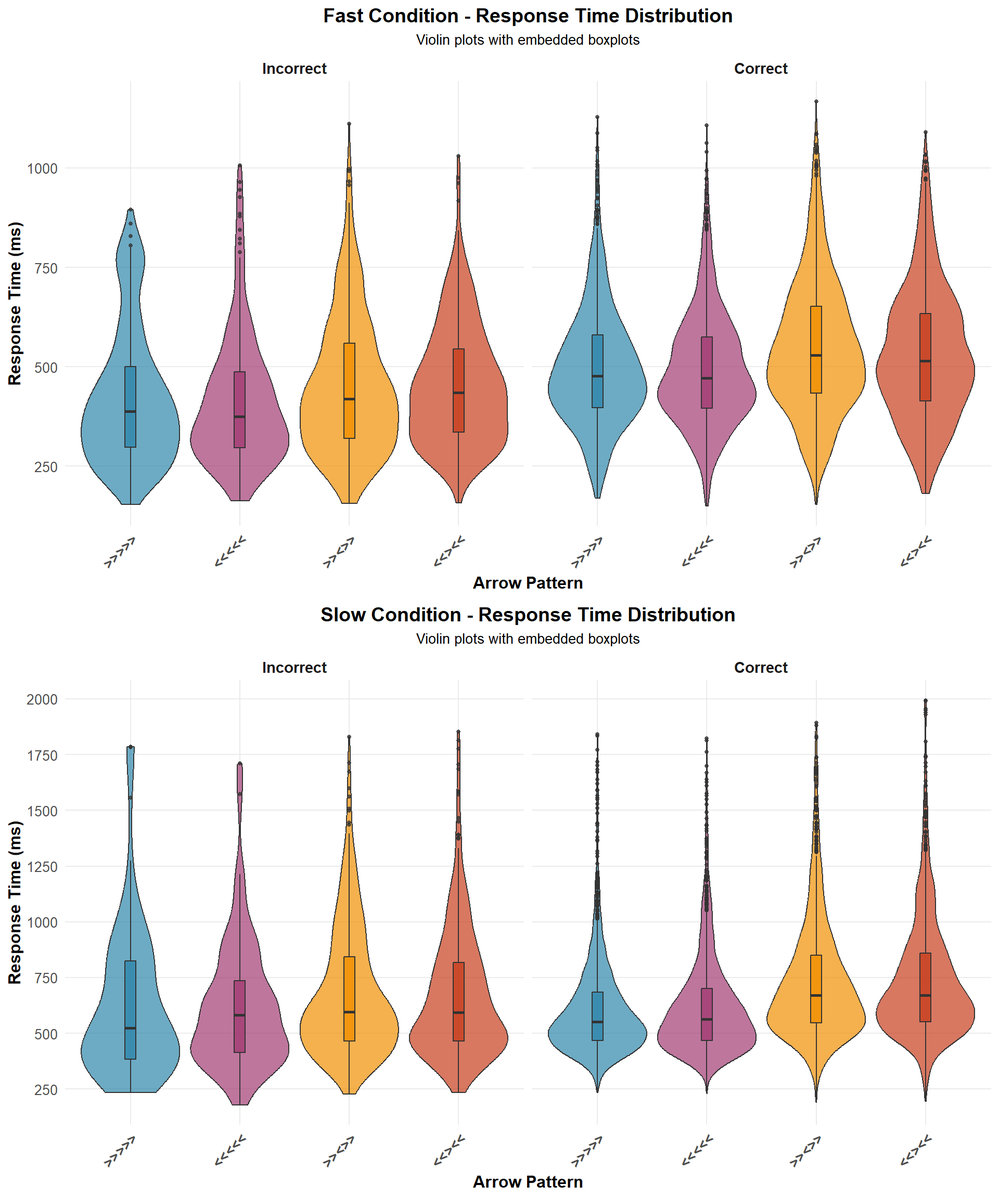
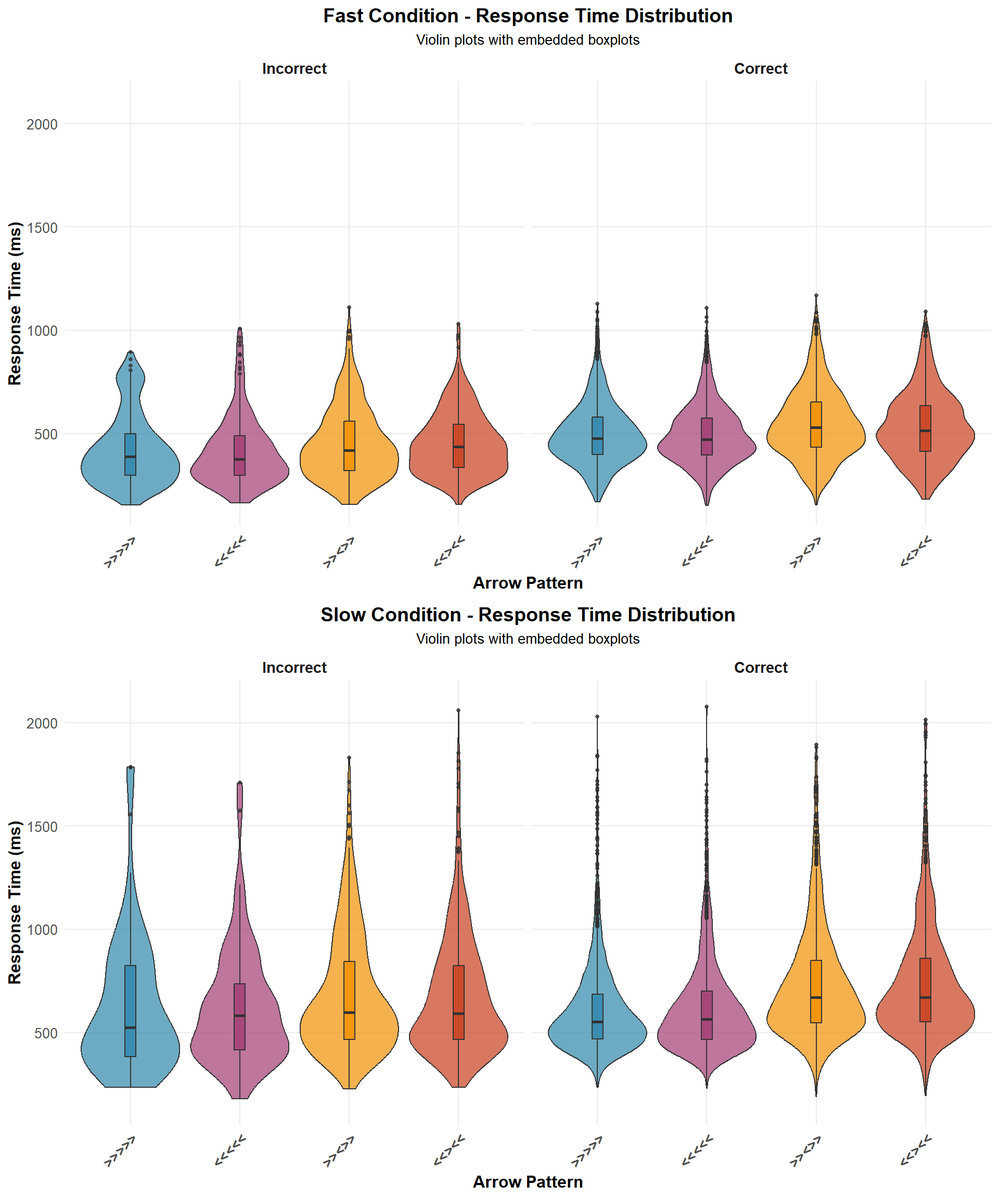
Add upper RT limits and unify plot axes for density plots
Applied upper bounds to RT_ms filtering (<=2000ms for fast, <=4500ms for slow) in data processing. Refactored RT density and violin plot functions to use a consistent x-axis range across both conditions, improving comparability of visualizations.

diff --git a/docs/Tarea3.html b/docs/Tarea3.html
@@ -360,61 +360,63 @@ pre > code.sourceCode > span > a:first-child::before { text-decoration: underlin
 <span id="cb3-64"><a href="#cb3-64" aria-hidden="true" tabindex="-1"></a>  <span class="fu">ungroup</span>() <span class="sc">%&gt;%</span></span>
 <span id="cb3-65"><a href="#cb3-65" aria-hidden="true" tabindex="-1"></a>  <span class="fu">group_by</span>(Subject, group_trial) <span class="sc">%&gt;%</span></span>
 <span id="cb3-66"><a href="#cb3-66" aria-hidden="true" tabindex="-1"></a>  <span class="fu">filter</span>(</span>
-<span id="cb3-67"><a href="#cb3-67" aria-hidden="true" tabindex="-1"></a>    RT_ms <span class="sc">&gt;=</span> <span class="dv">150</span></span>
-<span id="cb3-68"><a href="#cb3-68" aria-hidden="true" tabindex="-1"></a>  ) <span class="sc">%&gt;%</span> </span>
-<span id="cb3-69"><a href="#cb3-69" aria-hidden="true" tabindex="-1"></a>  <span class="fu">slice_min</span>(<span class="at">order_by =</span> Time, <span class="at">n =</span> <span class="dv">1</span>)</span>
-<span id="cb3-70"><a href="#cb3-70" aria-hidden="true" tabindex="-1"></a></span>
-<span id="cb3-71"><a href="#cb3-71" aria-hidden="true" tabindex="-1"></a><span class="co"># Para los datos lentos, aplicar el mismo procesamiento</span></span>
-<span id="cb3-72"><a href="#cb3-72" aria-hidden="true" tabindex="-1"></a>ericsen_lento_data_t <span class="ot">&lt;-</span> ericsen_lento_data[[<span class="dv">1</span>]] <span class="sc">%&gt;%</span> </span>
-<span id="cb3-73"><a href="#cb3-73" aria-hidden="true" tabindex="-1"></a>  <span class="fu">group_by</span>(Subject) <span class="sc">%&gt;%</span> </span>
-<span id="cb3-74"><a href="#cb3-74" aria-hidden="true" tabindex="-1"></a>  <span class="fu">mutate</span>(</span>
-<span id="cb3-75"><a href="#cb3-75" aria-hidden="true" tabindex="-1"></a>    <span class="at">group_trial =</span> <span class="fu">cumsum</span>(<span class="fu">if_else</span>(<span class="st">`</span><span class="at">Event Type</span><span class="st">`</span> <span class="sc">==</span> <span class="st">"Picture"</span>, <span class="dv">1</span>, <span class="dv">0</span>))</span>
-<span id="cb3-76"><a href="#cb3-76" aria-hidden="true" tabindex="-1"></a>  ) <span class="sc">%&gt;%</span></span>
-<span id="cb3-77"><a href="#cb3-77" aria-hidden="true" tabindex="-1"></a>  <span class="fu">ungroup</span>() <span class="sc">%&gt;%</span> </span>
-<span id="cb3-78"><a href="#cb3-78" aria-hidden="true" tabindex="-1"></a>  <span class="fu">group_by</span>(Subject, group_trial) <span class="sc">%&gt;%</span></span>
-<span id="cb3-79"><a href="#cb3-79" aria-hidden="true" tabindex="-1"></a>  <span class="fu">mutate</span>(</span>
-<span id="cb3-80"><a href="#cb3-80" aria-hidden="true" tabindex="-1"></a>    <span class="at">valid_trial =</span> <span class="fu">ifelse</span>(<span class="fu">n</span>() <span class="sc">==</span> <span class="dv">2</span>, <span class="dv">1</span>, <span class="dv">0</span>),</span>
-<span id="cb3-81"><a href="#cb3-81" aria-hidden="true" tabindex="-1"></a>    <span class="at">arrow =</span> <span class="fu">as.numeric</span>(<span class="fu">substr</span>(Code, <span class="dv">1</span>, <span class="dv">1</span>)),</span>
-<span id="cb3-82"><a href="#cb3-82" aria-hidden="true" tabindex="-1"></a>    <span class="at">correct_answer =</span> <span class="fu">as.numeric</span>(arrow[<span class="dv">1</span>] <span class="sc">==</span> arrow),</span>
-<span id="cb3-83"><a href="#cb3-83" aria-hidden="true" tabindex="-1"></a>    <span class="co"># Agregar la variable de patrón de flechas</span></span>
-<span id="cb3-84"><a href="#cb3-84" aria-hidden="true" tabindex="-1"></a>    <span class="at">arrow_pattern =</span> <span class="fu">factor</span>(<span class="fu">get_arrow_pattern</span>(<span class="fu">as.numeric</span>(Code[<span class="dv">1</span>])),</span>
-<span id="cb3-85"><a href="#cb3-85" aria-hidden="true" tabindex="-1"></a>                          <span class="at">levels =</span> <span class="fu">c</span>(<span class="st">"&gt;&gt;&gt;&gt;&gt;"</span>, <span class="st">"&lt;&lt;&lt;&lt;&lt;"</span>, <span class="st">"&gt;&gt;&lt;&gt;&gt;"</span>, <span class="st">"&lt;&lt;&gt;&lt;&lt;"</span>))</span>
-<span id="cb3-86"><a href="#cb3-86" aria-hidden="true" tabindex="-1"></a>  ) <span class="sc">%&gt;%</span> </span>
-<span id="cb3-87"><a href="#cb3-87" aria-hidden="true" tabindex="-1"></a>  <span class="fu">select</span>(</span>
-<span id="cb3-88"><a href="#cb3-88" aria-hidden="true" tabindex="-1"></a>    Subject,</span>
-<span id="cb3-89"><a href="#cb3-89" aria-hidden="true" tabindex="-1"></a>    Trial,</span>
-<span id="cb3-90"><a href="#cb3-90" aria-hidden="true" tabindex="-1"></a>    <span class="st">`</span><span class="at">Event Type</span><span class="st">`</span>,</span>
-<span id="cb3-91"><a href="#cb3-91" aria-hidden="true" tabindex="-1"></a>    Code,</span>
-<span id="cb3-92"><a href="#cb3-92" aria-hidden="true" tabindex="-1"></a>    Time,</span>
-<span id="cb3-93"><a href="#cb3-93" aria-hidden="true" tabindex="-1"></a>    group_trial<span class="sc">:</span>correct_answer,</span>
-<span id="cb3-94"><a href="#cb3-94" aria-hidden="true" tabindex="-1"></a>    arrow_pattern</span>
-<span id="cb3-95"><a href="#cb3-95" aria-hidden="true" tabindex="-1"></a>  ) <span class="sc">%&gt;%</span>  </span>
-<span id="cb3-96"><a href="#cb3-96" aria-hidden="true" tabindex="-1"></a>  <span class="fu">ungroup</span>() <span class="sc">%&gt;%</span></span>
-<span id="cb3-97"><a href="#cb3-97" aria-hidden="true" tabindex="-1"></a>  <span class="fu">group_by</span>(Subject, group_trial) <span class="sc">%&gt;%</span> </span>
-<span id="cb3-98"><a href="#cb3-98" aria-hidden="true" tabindex="-1"></a>  <span class="fu">mutate</span>(</span>
-<span id="cb3-99"><a href="#cb3-99" aria-hidden="true" tabindex="-1"></a>    <span class="at">Time =</span> <span class="fu">as.numeric</span>(Time),</span>
-<span id="cb3-100"><a href="#cb3-100" aria-hidden="true" tabindex="-1"></a>    <span class="at">RT_ms =</span> (Time <span class="sc">-</span> Time[<span class="dv">1</span>]) <span class="sc">/</span> <span class="dv">10</span></span>
-<span id="cb3-101"><a href="#cb3-101" aria-hidden="true" tabindex="-1"></a>  )</span>
-<span id="cb3-102"><a href="#cb3-102" aria-hidden="true" tabindex="-1"></a></span>
-<span id="cb3-103"><a href="#cb3-103" aria-hidden="true" tabindex="-1"></a><span class="co"># Procesar las respuestas lentas</span></span>
-<span id="cb3-104"><a href="#cb3-104" aria-hidden="true" tabindex="-1"></a>resp_ericsen_lento <span class="ot">&lt;-</span> ericsen_lento_data_t <span class="sc">%&gt;%</span> </span>
-<span id="cb3-105"><a href="#cb3-105" aria-hidden="true" tabindex="-1"></a>  <span class="fu">mutate</span>(</span>
-<span id="cb3-106"><a href="#cb3-106" aria-hidden="true" tabindex="-1"></a>    <span class="at">action =</span> <span class="fu">if_else</span>(arrow <span class="sc">==</span> <span class="dv">2</span>, <span class="st">"R"</span>, <span class="st">"L"</span>),</span>
-<span id="cb3-107"><a href="#cb3-107" aria-hidden="true" tabindex="-1"></a>    <span class="co"># Convertir correct_answer a factor con etiquetas en inglés</span></span>
-<span id="cb3-108"><a href="#cb3-108" aria-hidden="true" tabindex="-1"></a>    <span class="at">correct_response =</span> <span class="fu">factor</span>(correct_answer, </span>
-<span id="cb3-109"><a href="#cb3-109" aria-hidden="true" tabindex="-1"></a>                             <span class="at">levels =</span> <span class="fu">c</span>(<span class="dv">0</span>, <span class="dv">1</span>), </span>
-<span id="cb3-110"><a href="#cb3-110" aria-hidden="true" tabindex="-1"></a>                             <span class="at">labels =</span> <span class="fu">c</span>(<span class="st">"Incorrect"</span>, <span class="st">"Correct"</span>))</span>
-<span id="cb3-111"><a href="#cb3-111" aria-hidden="true" tabindex="-1"></a>  ) <span class="sc">%&gt;%</span> </span>
-<span id="cb3-112"><a href="#cb3-112" aria-hidden="true" tabindex="-1"></a>  <span class="fu">filter</span>(<span class="st">`</span><span class="at">Event Type</span><span class="st">`</span> <span class="sc">!=</span> <span class="st">"Picture"</span>) <span class="sc">%&gt;%</span></span>
-<span id="cb3-113"><a href="#cb3-113" aria-hidden="true" tabindex="-1"></a>  <span class="fu">ungroup</span>() <span class="sc">%&gt;%</span></span>
-<span id="cb3-114"><a href="#cb3-114" aria-hidden="true" tabindex="-1"></a>  <span class="fu">group_by</span>(Subject, group_trial) <span class="sc">%&gt;%</span></span>
-<span id="cb3-115"><a href="#cb3-115" aria-hidden="true" tabindex="-1"></a>  <span class="fu">filter</span>(</span>
-<span id="cb3-116"><a href="#cb3-116" aria-hidden="true" tabindex="-1"></a>    RT_ms <span class="sc">&gt;=</span> <span class="dv">150</span></span>
-<span id="cb3-117"><a href="#cb3-117" aria-hidden="true" tabindex="-1"></a>  ) <span class="sc">%&gt;%</span> </span>
-<span id="cb3-118"><a href="#cb3-118" aria-hidden="true" tabindex="-1"></a>  <span class="fu">slice_min</span>(<span class="at">order_by =</span> Time, <span class="at">n =</span> <span class="dv">1</span>)</span>
-<span id="cb3-119"><a href="#cb3-119" aria-hidden="true" tabindex="-1"></a></span>
-<span id="cb3-120"><a href="#cb3-120" aria-hidden="true" tabindex="-1"></a><span class="co"># densidades de correctas versus incorrectas</span></span>
-<span id="cb3-121"><a href="#cb3-121" aria-hidden="true" tabindex="-1"></a><span class="co"># simualcion porceso winner </span></span></code><button title="Copy to Clipboard" class="code-copy-button"><i class="bi"></i></button></pre></div>
+<span id="cb3-67"><a href="#cb3-67" aria-hidden="true" tabindex="-1"></a>    RT_ms <span class="sc">&gt;=</span> <span class="dv">150</span> <span class="sc">&amp;</span></span>
+<span id="cb3-68"><a href="#cb3-68" aria-hidden="true" tabindex="-1"></a>    RT_ms <span class="sc">&lt;=</span> <span class="dv">2000</span></span>
+<span id="cb3-69"><a href="#cb3-69" aria-hidden="true" tabindex="-1"></a>  ) <span class="sc">%&gt;%</span> </span>
+<span id="cb3-70"><a href="#cb3-70" aria-hidden="true" tabindex="-1"></a>  <span class="fu">slice_min</span>(<span class="at">order_by =</span> Time, <span class="at">n =</span> <span class="dv">1</span>)</span>
+<span id="cb3-71"><a href="#cb3-71" aria-hidden="true" tabindex="-1"></a></span>
+<span id="cb3-72"><a href="#cb3-72" aria-hidden="true" tabindex="-1"></a><span class="co"># Para los datos lentos, aplicar el mismo procesamiento</span></span>
+<span id="cb3-73"><a href="#cb3-73" aria-hidden="true" tabindex="-1"></a>ericsen_lento_data_t <span class="ot">&lt;-</span> ericsen_lento_data[[<span class="dv">1</span>]] <span class="sc">%&gt;%</span> </span>
+<span id="cb3-74"><a href="#cb3-74" aria-hidden="true" tabindex="-1"></a>  <span class="fu">group_by</span>(Subject) <span class="sc">%&gt;%</span> </span>
+<span id="cb3-75"><a href="#cb3-75" aria-hidden="true" tabindex="-1"></a>  <span class="fu">mutate</span>(</span>
+<span id="cb3-76"><a href="#cb3-76" aria-hidden="true" tabindex="-1"></a>    <span class="at">group_trial =</span> <span class="fu">cumsum</span>(<span class="fu">if_else</span>(<span class="st">`</span><span class="at">Event Type</span><span class="st">`</span> <span class="sc">==</span> <span class="st">"Picture"</span>, <span class="dv">1</span>, <span class="dv">0</span>))</span>
+<span id="cb3-77"><a href="#cb3-77" aria-hidden="true" tabindex="-1"></a>  ) <span class="sc">%&gt;%</span></span>
+<span id="cb3-78"><a href="#cb3-78" aria-hidden="true" tabindex="-1"></a>  <span class="fu">ungroup</span>() <span class="sc">%&gt;%</span> </span>
+<span id="cb3-79"><a href="#cb3-79" aria-hidden="true" tabindex="-1"></a>  <span class="fu">group_by</span>(Subject, group_trial) <span class="sc">%&gt;%</span></span>
+<span id="cb3-80"><a href="#cb3-80" aria-hidden="true" tabindex="-1"></a>  <span class="fu">mutate</span>(</span>
+<span id="cb3-81"><a href="#cb3-81" aria-hidden="true" tabindex="-1"></a>    <span class="at">valid_trial =</span> <span class="fu">ifelse</span>(<span class="fu">n</span>() <span class="sc">==</span> <span class="dv">2</span>, <span class="dv">1</span>, <span class="dv">0</span>),</span>
+<span id="cb3-82"><a href="#cb3-82" aria-hidden="true" tabindex="-1"></a>    <span class="at">arrow =</span> <span class="fu">as.numeric</span>(<span class="fu">substr</span>(Code, <span class="dv">1</span>, <span class="dv">1</span>)),</span>
+<span id="cb3-83"><a href="#cb3-83" aria-hidden="true" tabindex="-1"></a>    <span class="at">correct_answer =</span> <span class="fu">as.numeric</span>(arrow[<span class="dv">1</span>] <span class="sc">==</span> arrow),</span>
+<span id="cb3-84"><a href="#cb3-84" aria-hidden="true" tabindex="-1"></a>    <span class="co"># Agregar la variable de patrón de flechas</span></span>
+<span id="cb3-85"><a href="#cb3-85" aria-hidden="true" tabindex="-1"></a>    <span class="at">arrow_pattern =</span> <span class="fu">factor</span>(<span class="fu">get_arrow_pattern</span>(<span class="fu">as.numeric</span>(Code[<span class="dv">1</span>])),</span>
+<span id="cb3-86"><a href="#cb3-86" aria-hidden="true" tabindex="-1"></a>                          <span class="at">levels =</span> <span class="fu">c</span>(<span class="st">"&gt;&gt;&gt;&gt;&gt;"</span>, <span class="st">"&lt;&lt;&lt;&lt;&lt;"</span>, <span class="st">"&gt;&gt;&lt;&gt;&gt;"</span>, <span class="st">"&lt;&lt;&gt;&lt;&lt;"</span>))</span>
+<span id="cb3-87"><a href="#cb3-87" aria-hidden="true" tabindex="-1"></a>  ) <span class="sc">%&gt;%</span> </span>
+<span id="cb3-88"><a href="#cb3-88" aria-hidden="true" tabindex="-1"></a>  <span class="fu">select</span>(</span>
+<span id="cb3-89"><a href="#cb3-89" aria-hidden="true" tabindex="-1"></a>    Subject,</span>
+<span id="cb3-90"><a href="#cb3-90" aria-hidden="true" tabindex="-1"></a>    Trial,</span>
+<span id="cb3-91"><a href="#cb3-91" aria-hidden="true" tabindex="-1"></a>    <span class="st">`</span><span class="at">Event Type</span><span class="st">`</span>,</span>
+<span id="cb3-92"><a href="#cb3-92" aria-hidden="true" tabindex="-1"></a>    Code,</span>
+<span id="cb3-93"><a href="#cb3-93" aria-hidden="true" tabindex="-1"></a>    Time,</span>
+<span id="cb3-94"><a href="#cb3-94" aria-hidden="true" tabindex="-1"></a>    group_trial<span class="sc">:</span>correct_answer,</span>
+<span id="cb3-95"><a href="#cb3-95" aria-hidden="true" tabindex="-1"></a>    arrow_pattern</span>
+<span id="cb3-96"><a href="#cb3-96" aria-hidden="true" tabindex="-1"></a>  ) <span class="sc">%&gt;%</span>  </span>
+<span id="cb3-97"><a href="#cb3-97" aria-hidden="true" tabindex="-1"></a>  <span class="fu">ungroup</span>() <span class="sc">%&gt;%</span></span>
+<span id="cb3-98"><a href="#cb3-98" aria-hidden="true" tabindex="-1"></a>  <span class="fu">group_by</span>(Subject, group_trial) <span class="sc">%&gt;%</span> </span>
+<span id="cb3-99"><a href="#cb3-99" aria-hidden="true" tabindex="-1"></a>  <span class="fu">mutate</span>(</span>
+<span id="cb3-100"><a href="#cb3-100" aria-hidden="true" tabindex="-1"></a>    <span class="at">Time =</span> <span class="fu">as.numeric</span>(Time),</span>
+<span id="cb3-101"><a href="#cb3-101" aria-hidden="true" tabindex="-1"></a>    <span class="at">RT_ms =</span> (Time <span class="sc">-</span> Time[<span class="dv">1</span>]) <span class="sc">/</span> <span class="dv">10</span></span>
+<span id="cb3-102"><a href="#cb3-102" aria-hidden="true" tabindex="-1"></a>  )</span>
+<span id="cb3-103"><a href="#cb3-103" aria-hidden="true" tabindex="-1"></a></span>
+<span id="cb3-104"><a href="#cb3-104" aria-hidden="true" tabindex="-1"></a><span class="co"># Procesar las respuestas lentas</span></span>
+<span id="cb3-105"><a href="#cb3-105" aria-hidden="true" tabindex="-1"></a>resp_ericsen_lento <span class="ot">&lt;-</span> ericsen_lento_data_t <span class="sc">%&gt;%</span> </span>
+<span id="cb3-106"><a href="#cb3-106" aria-hidden="true" tabindex="-1"></a>  <span class="fu">mutate</span>(</span>
+<span id="cb3-107"><a href="#cb3-107" aria-hidden="true" tabindex="-1"></a>    <span class="at">action =</span> <span class="fu">if_else</span>(arrow <span class="sc">==</span> <span class="dv">2</span>, <span class="st">"R"</span>, <span class="st">"L"</span>),</span>
+<span id="cb3-108"><a href="#cb3-108" aria-hidden="true" tabindex="-1"></a>    <span class="co"># Convertir correct_answer a factor con etiquetas en inglés</span></span>
+<span id="cb3-109"><a href="#cb3-109" aria-hidden="true" tabindex="-1"></a>    <span class="at">correct_response =</span> <span class="fu">factor</span>(correct_answer, </span>
+<span id="cb3-110"><a href="#cb3-110" aria-hidden="true" tabindex="-1"></a>                             <span class="at">levels =</span> <span class="fu">c</span>(<span class="dv">0</span>, <span class="dv">1</span>), </span>
+<span id="cb3-111"><a href="#cb3-111" aria-hidden="true" tabindex="-1"></a>                             <span class="at">labels =</span> <span class="fu">c</span>(<span class="st">"Incorrect"</span>, <span class="st">"Correct"</span>))</span>
+<span id="cb3-112"><a href="#cb3-112" aria-hidden="true" tabindex="-1"></a>  ) <span class="sc">%&gt;%</span> </span>
+<span id="cb3-113"><a href="#cb3-113" aria-hidden="true" tabindex="-1"></a>  <span class="fu">filter</span>(<span class="st">`</span><span class="at">Event Type</span><span class="st">`</span> <span class="sc">!=</span> <span class="st">"Picture"</span>) <span class="sc">%&gt;%</span></span>
+<span id="cb3-114"><a href="#cb3-114" aria-hidden="true" tabindex="-1"></a>  <span class="fu">ungroup</span>() <span class="sc">%&gt;%</span></span>
+<span id="cb3-115"><a href="#cb3-115" aria-hidden="true" tabindex="-1"></a>  <span class="fu">group_by</span>(Subject, group_trial) <span class="sc">%&gt;%</span></span>
+<span id="cb3-116"><a href="#cb3-116" aria-hidden="true" tabindex="-1"></a>  <span class="fu">filter</span>(</span>
+<span id="cb3-117"><a href="#cb3-117" aria-hidden="true" tabindex="-1"></a>    RT_ms <span class="sc">&gt;=</span> <span class="dv">150</span> <span class="sc">&amp;</span></span>
+<span id="cb3-118"><a href="#cb3-118" aria-hidden="true" tabindex="-1"></a>    RT_ms <span class="sc">&lt;=</span> <span class="dv">4500</span></span>
+<span id="cb3-119"><a href="#cb3-119" aria-hidden="true" tabindex="-1"></a>  ) <span class="sc">%&gt;%</span> </span>
+<span id="cb3-120"><a href="#cb3-120" aria-hidden="true" tabindex="-1"></a>  <span class="fu">slice_min</span>(<span class="at">order_by =</span> Time, <span class="at">n =</span> <span class="dv">1</span>)</span>
+<span id="cb3-121"><a href="#cb3-121" aria-hidden="true" tabindex="-1"></a></span>
+<span id="cb3-122"><a href="#cb3-122" aria-hidden="true" tabindex="-1"></a><span class="co"># densidades de correctas versus incorrectas</span></span>
+<span id="cb3-123"><a href="#cb3-123" aria-hidden="true" tabindex="-1"></a><span class="co"># simualcion porceso winner </span></span></code><button title="Copy to Clipboard" class="code-copy-button"><i class="bi"></i></button></pre></div>
 </details>
 </div>
 <div class="cell">
@@ -646,52 +648,57 @@ pre > code.sourceCode > span > a:first-child::before { text-decoration: underlin
 <div class="cell">
 <details class="code-fold">
 <summary>Code</summary>
-<div class="sourceCode cell-code" id="cb8"><pre class="sourceCode r code-with-copy"><code class="sourceCode r"><span id="cb8-1"><a href="#cb8-1" aria-hidden="true" tabindex="-1"></a><span class="co"># Function to create RT density plot</span></span>
-<span id="cb8-2"><a href="#cb8-2" aria-hidden="true" tabindex="-1"></a>create_rt_density_plot <span class="ot">&lt;-</span> <span class="cf">function</span>(data, condition_name) {</span>
-<span id="cb8-3"><a href="#cb8-3" aria-hidden="true" tabindex="-1"></a>  <span class="co"># Filter out extreme RT values if needed (optional)</span></span>
-<span id="cb8-4"><a href="#cb8-4" aria-hidden="true" tabindex="-1"></a>  rt_data <span class="ot">&lt;-</span> data <span class="sc">%&gt;%</span></span>
-<span id="cb8-5"><a href="#cb8-5" aria-hidden="true" tabindex="-1"></a>    <span class="fu">filter</span>(RT_ms <span class="sc">&gt;</span> <span class="dv">0</span> <span class="sc">&amp;</span> RT_ms <span class="sc">&lt;</span> <span class="dv">2000</span>)  <span class="co"># Keep RTs between 0 and 2000ms</span></span>
-<span id="cb8-6"><a href="#cb8-6" aria-hidden="true" tabindex="-1"></a>  </span>
-<span id="cb8-7"><a href="#cb8-7" aria-hidden="true" tabindex="-1"></a>  <span class="co"># Create density plot</span></span>
-<span id="cb8-8"><a href="#cb8-8" aria-hidden="true" tabindex="-1"></a>  <span class="fu">ggplot</span>(rt_data, <span class="fu">aes</span>(<span class="at">x =</span> RT_ms, <span class="at">fill =</span> arrow_pattern, <span class="at">color =</span> arrow_pattern)) <span class="sc">+</span></span>
-<span id="cb8-9"><a href="#cb8-9" aria-hidden="true" tabindex="-1"></a>    <span class="fu">geom_density</span>(<span class="at">alpha =</span> <span class="fl">0.3</span>, <span class="at">size =</span> <span class="dv">1</span>) <span class="sc">+</span></span>
-<span id="cb8-10"><a href="#cb8-10" aria-hidden="true" tabindex="-1"></a>    <span class="fu">facet_wrap</span>(<span class="sc">~</span> correct_response, <span class="at">ncol =</span> <span class="dv">2</span>) <span class="sc">+</span></span>
-<span id="cb8-11"><a href="#cb8-11" aria-hidden="true" tabindex="-1"></a>    <span class="fu">scale_fill_manual</span>(<span class="at">values =</span> <span class="fu">c</span>(<span class="st">"&gt;&gt;&gt;&gt;&gt;"</span> <span class="ot">=</span> <span class="st">"#2E86AB"</span>, </span>
-<span id="cb8-12"><a href="#cb8-12" aria-hidden="true" tabindex="-1"></a>                                 <span class="st">"&lt;&lt;&lt;&lt;&lt;"</span> <span class="ot">=</span> <span class="st">"#A23B72"</span>, </span>
-<span id="cb8-13"><a href="#cb8-13" aria-hidden="true" tabindex="-1"></a>                                 <span class="st">"&gt;&gt;&lt;&gt;&gt;"</span> <span class="ot">=</span> <span class="st">"#F18F01"</span>, </span>
-<span id="cb8-14"><a href="#cb8-14" aria-hidden="true" tabindex="-1"></a>                                 <span class="st">"&lt;&lt;&gt;&lt;&lt;"</span> <span class="ot">=</span> <span class="st">"#C73E1D"</span>),</span>
-<span id="cb8-15"><a href="#cb8-15" aria-hidden="true" tabindex="-1"></a>                      <span class="at">name =</span> <span class="st">"Arrow Pattern"</span>) <span class="sc">+</span></span>
-<span id="cb8-16"><a href="#cb8-16" aria-hidden="true" tabindex="-1"></a>    <span class="fu">scale_color_manual</span>(<span class="at">values =</span> <span class="fu">c</span>(<span class="st">"&gt;&gt;&gt;&gt;&gt;"</span> <span class="ot">=</span> <span class="st">"#2E86AB"</span>, </span>
-<span id="cb8-17"><a href="#cb8-17" aria-hidden="true" tabindex="-1"></a>                                  <span class="st">"&lt;&lt;&lt;&lt;&lt;"</span> <span class="ot">=</span> <span class="st">"#A23B72"</span>, </span>
-<span id="cb8-18"><a href="#cb8-18" aria-hidden="true" tabindex="-1"></a>                                  <span class="st">"&gt;&gt;&lt;&gt;&gt;"</span> <span class="ot">=</span> <span class="st">"#F18F01"</span>, </span>
-<span id="cb8-19"><a href="#cb8-19" aria-hidden="true" tabindex="-1"></a>                                  <span class="st">"&lt;&lt;&gt;&lt;&lt;"</span> <span class="ot">=</span> <span class="st">"#C73E1D"</span>),</span>
-<span id="cb8-20"><a href="#cb8-20" aria-hidden="true" tabindex="-1"></a>                       <span class="at">name =</span> <span class="st">"Arrow Pattern"</span>) <span class="sc">+</span></span>
-<span id="cb8-21"><a href="#cb8-21" aria-hidden="true" tabindex="-1"></a>    <span class="fu">labs</span>(</span>
-<span id="cb8-22"><a href="#cb8-22" aria-hidden="true" tabindex="-1"></a>      <span class="at">title =</span> <span class="fu">paste</span>(condition_name, <span class="st">"Condition - Response Time Distribution by Arrow Pattern"</span>),</span>
-<span id="cb8-23"><a href="#cb8-23" aria-hidden="true" tabindex="-1"></a>      <span class="at">subtitle =</span> <span class="st">"Faceted by Response Correctness"</span>,</span>
-<span id="cb8-24"><a href="#cb8-24" aria-hidden="true" tabindex="-1"></a>      <span class="at">x =</span> <span class="st">"Response Time (ms)"</span>,</span>
-<span id="cb8-25"><a href="#cb8-25" aria-hidden="true" tabindex="-1"></a>      <span class="at">y =</span> <span class="st">"Density"</span></span>
-<span id="cb8-26"><a href="#cb8-26" aria-hidden="true" tabindex="-1"></a>    ) <span class="sc">+</span></span>
-<span id="cb8-27"><a href="#cb8-27" aria-hidden="true" tabindex="-1"></a>    <span class="fu">theme_minimal</span>() <span class="sc">+</span></span>
-<span id="cb8-28"><a href="#cb8-28" aria-hidden="true" tabindex="-1"></a>    <span class="fu">theme</span>(</span>
-<span id="cb8-29"><a href="#cb8-29" aria-hidden="true" tabindex="-1"></a>      <span class="at">axis.text =</span> <span class="fu">element_text</span>(<span class="at">size =</span> <span class="dv">10</span>),</span>
-<span id="cb8-30"><a href="#cb8-30" aria-hidden="true" tabindex="-1"></a>      <span class="at">axis.title =</span> <span class="fu">element_text</span>(<span class="at">size =</span> <span class="dv">12</span>, <span class="at">face =</span> <span class="st">"bold"</span>),</span>
-<span id="cb8-31"><a href="#cb8-31" aria-hidden="true" tabindex="-1"></a>      <span class="at">plot.title =</span> <span class="fu">element_text</span>(<span class="at">size =</span> <span class="dv">14</span>, <span class="at">face =</span> <span class="st">"bold"</span>, <span class="at">hjust =</span> <span class="fl">0.5</span>),</span>
-<span id="cb8-32"><a href="#cb8-32" aria-hidden="true" tabindex="-1"></a>      <span class="at">plot.subtitle =</span> <span class="fu">element_text</span>(<span class="at">size =</span> <span class="dv">10</span>, <span class="at">hjust =</span> <span class="fl">0.5</span>),</span>
-<span id="cb8-33"><a href="#cb8-33" aria-hidden="true" tabindex="-1"></a>      <span class="at">strip.text =</span> <span class="fu">element_text</span>(<span class="at">size =</span> <span class="dv">11</span>, <span class="at">face =</span> <span class="st">"bold"</span>),</span>
-<span id="cb8-34"><a href="#cb8-34" aria-hidden="true" tabindex="-1"></a>      <span class="at">legend.position =</span> <span class="st">"bottom"</span>,</span>
-<span id="cb8-35"><a href="#cb8-35" aria-hidden="true" tabindex="-1"></a>      <span class="at">legend.title =</span> <span class="fu">element_text</span>(<span class="at">face =</span> <span class="st">"bold"</span>),</span>
-<span id="cb8-36"><a href="#cb8-36" aria-hidden="true" tabindex="-1"></a>      <span class="at">panel.grid.minor =</span> <span class="fu">element_blank</span>()</span>
-<span id="cb8-37"><a href="#cb8-37" aria-hidden="true" tabindex="-1"></a>    ) <span class="sc">+</span></span>
-<span id="cb8-38"><a href="#cb8-38" aria-hidden="true" tabindex="-1"></a>    <span class="fu">scale_x_continuous</span>(<span class="at">breaks =</span> <span class="fu">seq</span>(<span class="dv">0</span>, <span class="dv">2000</span>, <span class="dv">250</span>))</span>
-<span id="cb8-39"><a href="#cb8-39" aria-hidden="true" tabindex="-1"></a>}</span>
-<span id="cb8-40"><a href="#cb8-40" aria-hidden="true" tabindex="-1"></a></span>
-<span id="cb8-41"><a href="#cb8-41" aria-hidden="true" tabindex="-1"></a><span class="co"># Create RT density plots for both conditions</span></span>
-<span id="cb8-42"><a href="#cb8-42" aria-hidden="true" tabindex="-1"></a>rt_density_fast <span class="ot">&lt;-</span> <span class="fu">create_rt_density_plot</span>(resp_ericsen_rapido, <span class="st">"Fast"</span>)</span>
-<span id="cb8-43"><a href="#cb8-43" aria-hidden="true" tabindex="-1"></a>rt_density_slow <span class="ot">&lt;-</span> <span class="fu">create_rt_density_plot</span>(resp_ericsen_lento, <span class="st">"Slow"</span>)</span>
-<span id="cb8-44"><a href="#cb8-44" aria-hidden="true" tabindex="-1"></a></span>
-<span id="cb8-45"><a href="#cb8-45" aria-hidden="true" tabindex="-1"></a><span class="co"># Display both plots</span></span>
-<span id="cb8-46"><a href="#cb8-46" aria-hidden="true" tabindex="-1"></a><span class="fu">grid.arrange</span>(rt_density_fast, rt_density_slow, <span class="at">ncol =</span> <span class="dv">1</span>, <span class="at">nrow =</span> <span class="dv">2</span>)</span></code><button title="Copy to Clipboard" class="code-copy-button"><i class="bi"></i></button></pre></div>
+<div class="sourceCode cell-code" id="cb8"><pre class="sourceCode r code-with-copy"><code class="sourceCode r"><span id="cb8-1"><a href="#cb8-1" aria-hidden="true" tabindex="-1"></a><span class="co"># Calculate max RT across both conditions for consistent axes</span></span>
+<span id="cb8-2"><a href="#cb8-2" aria-hidden="true" tabindex="-1"></a>max_rt_fast <span class="ot">&lt;-</span> <span class="fu">max</span>(resp_ericsen_rapido<span class="sc">$</span>RT_ms, <span class="at">na.rm =</span> <span class="cn">TRUE</span>)</span>
+<span id="cb8-3"><a href="#cb8-3" aria-hidden="true" tabindex="-1"></a>max_rt_slow <span class="ot">&lt;-</span> <span class="fu">max</span>(resp_ericsen_lento<span class="sc">$</span>RT_ms, <span class="at">na.rm =</span> <span class="cn">TRUE</span>)</span>
+<span id="cb8-4"><a href="#cb8-4" aria-hidden="true" tabindex="-1"></a>max_rt_overall <span class="ot">&lt;-</span> <span class="fu">max</span>(max_rt_fast, max_rt_slow) <span class="sc">-</span><span class="dv">1000</span></span>
+<span id="cb8-5"><a href="#cb8-5" aria-hidden="true" tabindex="-1"></a></span>
+<span id="cb8-6"><a href="#cb8-6" aria-hidden="true" tabindex="-1"></a><span class="co"># Function to create RT density plot</span></span>
+<span id="cb8-7"><a href="#cb8-7" aria-hidden="true" tabindex="-1"></a>create_rt_density_plot <span class="ot">&lt;-</span> <span class="cf">function</span>(data, condition_name, max_rt) {</span>
+<span id="cb8-8"><a href="#cb8-8" aria-hidden="true" tabindex="-1"></a>  <span class="co"># Filter to include only RTs &gt;= 150ms</span></span>
+<span id="cb8-9"><a href="#cb8-9" aria-hidden="true" tabindex="-1"></a>  rt_data <span class="ot">&lt;-</span> data <span class="sc">%&gt;%</span></span>
+<span id="cb8-10"><a href="#cb8-10" aria-hidden="true" tabindex="-1"></a>    <span class="fu">filter</span>(RT_ms <span class="sc">&gt;=</span> <span class="dv">150</span>)</span>
+<span id="cb8-11"><a href="#cb8-11" aria-hidden="true" tabindex="-1"></a>  </span>
+<span id="cb8-12"><a href="#cb8-12" aria-hidden="true" tabindex="-1"></a>  <span class="co"># Create density plot</span></span>
+<span id="cb8-13"><a href="#cb8-13" aria-hidden="true" tabindex="-1"></a>  <span class="fu">ggplot</span>(rt_data, <span class="fu">aes</span>(<span class="at">x =</span> RT_ms, <span class="at">fill =</span> arrow_pattern, <span class="at">color =</span> arrow_pattern)) <span class="sc">+</span></span>
+<span id="cb8-14"><a href="#cb8-14" aria-hidden="true" tabindex="-1"></a>    <span class="fu">geom_density</span>(<span class="at">alpha =</span> <span class="fl">0.3</span>, <span class="at">size =</span> <span class="dv">1</span>) <span class="sc">+</span></span>
+<span id="cb8-15"><a href="#cb8-15" aria-hidden="true" tabindex="-1"></a>    <span class="fu">facet_wrap</span>(<span class="sc">~</span> correct_response, <span class="at">ncol =</span> <span class="dv">2</span>) <span class="sc">+</span></span>
+<span id="cb8-16"><a href="#cb8-16" aria-hidden="true" tabindex="-1"></a>    <span class="fu">scale_fill_manual</span>(<span class="at">values =</span> <span class="fu">c</span>(<span class="st">"&gt;&gt;&gt;&gt;&gt;"</span> <span class="ot">=</span> <span class="st">"#2E86AB"</span>, </span>
+<span id="cb8-17"><a href="#cb8-17" aria-hidden="true" tabindex="-1"></a>                                 <span class="st">"&lt;&lt;&lt;&lt;&lt;"</span> <span class="ot">=</span> <span class="st">"#A23B72"</span>, </span>
+<span id="cb8-18"><a href="#cb8-18" aria-hidden="true" tabindex="-1"></a>                                 <span class="st">"&gt;&gt;&lt;&gt;&gt;"</span> <span class="ot">=</span> <span class="st">"#F18F01"</span>, </span>
+<span id="cb8-19"><a href="#cb8-19" aria-hidden="true" tabindex="-1"></a>                                 <span class="st">"&lt;&lt;&gt;&lt;&lt;"</span> <span class="ot">=</span> <span class="st">"#C73E1D"</span>),</span>
+<span id="cb8-20"><a href="#cb8-20" aria-hidden="true" tabindex="-1"></a>                      <span class="at">name =</span> <span class="st">"Arrow Pattern"</span>) <span class="sc">+</span></span>
+<span id="cb8-21"><a href="#cb8-21" aria-hidden="true" tabindex="-1"></a>    <span class="fu">scale_color_manual</span>(<span class="at">values =</span> <span class="fu">c</span>(<span class="st">"&gt;&gt;&gt;&gt;&gt;"</span> <span class="ot">=</span> <span class="st">"#2E86AB"</span>, </span>
+<span id="cb8-22"><a href="#cb8-22" aria-hidden="true" tabindex="-1"></a>                                  <span class="st">"&lt;&lt;&lt;&lt;&lt;"</span> <span class="ot">=</span> <span class="st">"#A23B72"</span>, </span>
+<span id="cb8-23"><a href="#cb8-23" aria-hidden="true" tabindex="-1"></a>                                  <span class="st">"&gt;&gt;&lt;&gt;&gt;"</span> <span class="ot">=</span> <span class="st">"#F18F01"</span>, </span>
+<span id="cb8-24"><a href="#cb8-24" aria-hidden="true" tabindex="-1"></a>                                  <span class="st">"&lt;&lt;&gt;&lt;&lt;"</span> <span class="ot">=</span> <span class="st">"#C73E1D"</span>),</span>
+<span id="cb8-25"><a href="#cb8-25" aria-hidden="true" tabindex="-1"></a>                       <span class="at">name =</span> <span class="st">"Arrow Pattern"</span>) <span class="sc">+</span></span>
+<span id="cb8-26"><a href="#cb8-26" aria-hidden="true" tabindex="-1"></a>    <span class="fu">labs</span>(</span>
+<span id="cb8-27"><a href="#cb8-27" aria-hidden="true" tabindex="-1"></a>      <span class="at">title =</span> <span class="fu">paste</span>(condition_name, <span class="st">"Condition - Response Time Distribution by Arrow Pattern"</span>),</span>
+<span id="cb8-28"><a href="#cb8-28" aria-hidden="true" tabindex="-1"></a>      <span class="at">subtitle =</span> <span class="st">"Faceted by Response Correctness"</span>,</span>
+<span id="cb8-29"><a href="#cb8-29" aria-hidden="true" tabindex="-1"></a>      <span class="at">x =</span> <span class="st">"Response Time (ms)"</span>,</span>
+<span id="cb8-30"><a href="#cb8-30" aria-hidden="true" tabindex="-1"></a>      <span class="at">y =</span> <span class="st">"Density"</span></span>
+<span id="cb8-31"><a href="#cb8-31" aria-hidden="true" tabindex="-1"></a>    ) <span class="sc">+</span></span>
+<span id="cb8-32"><a href="#cb8-32" aria-hidden="true" tabindex="-1"></a>    <span class="fu">theme_minimal</span>() <span class="sc">+</span></span>
+<span id="cb8-33"><a href="#cb8-33" aria-hidden="true" tabindex="-1"></a>    <span class="fu">theme</span>(</span>
+<span id="cb8-34"><a href="#cb8-34" aria-hidden="true" tabindex="-1"></a>      <span class="at">axis.text =</span> <span class="fu">element_text</span>(<span class="at">size =</span> <span class="dv">10</span>),</span>
+<span id="cb8-35"><a href="#cb8-35" aria-hidden="true" tabindex="-1"></a>      <span class="at">axis.title =</span> <span class="fu">element_text</span>(<span class="at">size =</span> <span class="dv">12</span>, <span class="at">face =</span> <span class="st">"bold"</span>),</span>
+<span id="cb8-36"><a href="#cb8-36" aria-hidden="true" tabindex="-1"></a>      <span class="at">plot.title =</span> <span class="fu">element_text</span>(<span class="at">size =</span> <span class="dv">14</span>, <span class="at">face =</span> <span class="st">"bold"</span>, <span class="at">hjust =</span> <span class="fl">0.5</span>),</span>
+<span id="cb8-37"><a href="#cb8-37" aria-hidden="true" tabindex="-1"></a>      <span class="at">plot.subtitle =</span> <span class="fu">element_text</span>(<span class="at">size =</span> <span class="dv">10</span>, <span class="at">hjust =</span> <span class="fl">0.5</span>),</span>
+<span id="cb8-38"><a href="#cb8-38" aria-hidden="true" tabindex="-1"></a>      <span class="at">strip.text =</span> <span class="fu">element_text</span>(<span class="at">size =</span> <span class="dv">11</span>, <span class="at">face =</span> <span class="st">"bold"</span>),</span>
+<span id="cb8-39"><a href="#cb8-39" aria-hidden="true" tabindex="-1"></a>      <span class="at">legend.position =</span> <span class="st">"bottom"</span>,</span>
+<span id="cb8-40"><a href="#cb8-40" aria-hidden="true" tabindex="-1"></a>      <span class="at">legend.title =</span> <span class="fu">element_text</span>(<span class="at">face =</span> <span class="st">"bold"</span>),</span>
+<span id="cb8-41"><a href="#cb8-41" aria-hidden="true" tabindex="-1"></a>      <span class="at">panel.grid.minor =</span> <span class="fu">element_blank</span>()</span>
+<span id="cb8-42"><a href="#cb8-42" aria-hidden="true" tabindex="-1"></a>    ) <span class="sc">+</span></span>
+<span id="cb8-43"><a href="#cb8-43" aria-hidden="true" tabindex="-1"></a>    <span class="fu">scale_x_continuous</span>(<span class="at">breaks =</span> <span class="fu">seq</span>(<span class="dv">0</span>, <span class="fu">ceiling</span>(max_rt<span class="sc">/</span><span class="dv">500</span>)<span class="sc">*</span><span class="dv">500</span>, <span class="dv">500</span>), <span class="at">limits =</span> <span class="fu">c</span>(<span class="dv">150</span>, max_rt))</span>
+<span id="cb8-44"><a href="#cb8-44" aria-hidden="true" tabindex="-1"></a>}</span>
+<span id="cb8-45"><a href="#cb8-45" aria-hidden="true" tabindex="-1"></a></span>
+<span id="cb8-46"><a href="#cb8-46" aria-hidden="true" tabindex="-1"></a><span class="co"># Create RT density plots for both conditions</span></span>
+<span id="cb8-47"><a href="#cb8-47" aria-hidden="true" tabindex="-1"></a>rt_density_fast <span class="ot">&lt;-</span> <span class="fu">create_rt_density_plot</span>(resp_ericsen_rapido, <span class="st">"Fast"</span>, max_rt_overall)</span>
+<span id="cb8-48"><a href="#cb8-48" aria-hidden="true" tabindex="-1"></a>rt_density_slow <span class="ot">&lt;-</span> <span class="fu">create_rt_density_plot</span>(resp_ericsen_lento, <span class="st">"Slow"</span>, max_rt_overall)</span>
+<span id="cb8-49"><a href="#cb8-49" aria-hidden="true" tabindex="-1"></a></span>
+<span id="cb8-50"><a href="#cb8-50" aria-hidden="true" tabindex="-1"></a><span class="co"># Display both plots</span></span>
+<span id="cb8-51"><a href="#cb8-51" aria-hidden="true" tabindex="-1"></a><span class="fu">grid.arrange</span>(rt_density_fast, rt_density_slow, <span class="at">ncol =</span> <span class="dv">1</span>, <span class="at">nrow =</span> <span class="dv">2</span>)</span></code><button title="Copy to Clipboard" class="code-copy-button"><i class="bi"></i></button></pre></div>
 </details>
 <div class="cell-output-display">
 <div>
@@ -703,10 +710,10 @@ pre > code.sourceCode > span > a:first-child::before { text-decoration: underlin
 <details class="code-fold">
 <summary>Code</summary>
 <div class="sourceCode cell-code" id="cb9"><pre class="sourceCode r code-with-copy"><code class="sourceCode r"><span id="cb9-1"><a href="#cb9-1" aria-hidden="true" tabindex="-1"></a><span class="co"># Alternative version with violin plots for better comparison</span></span>
-<span id="cb9-2"><a href="#cb9-2" aria-hidden="true" tabindex="-1"></a>create_rt_violin_plot <span class="ot">&lt;-</span> <span class="cf">function</span>(data, condition_name) {</span>
-<span id="cb9-3"><a href="#cb9-3" aria-hidden="true" tabindex="-1"></a>  <span class="co"># Filter out extreme RT values</span></span>
+<span id="cb9-2"><a href="#cb9-2" aria-hidden="true" tabindex="-1"></a>create_rt_violin_plot <span class="ot">&lt;-</span> <span class="cf">function</span>(data, condition_name, max_rt) {</span>
+<span id="cb9-3"><a href="#cb9-3" aria-hidden="true" tabindex="-1"></a>  <span class="co"># Filter to include only RTs &gt;= 150ms</span></span>
 <span id="cb9-4"><a href="#cb9-4" aria-hidden="true" tabindex="-1"></a>  rt_data <span class="ot">&lt;-</span> data <span class="sc">%&gt;%</span></span>
-<span id="cb9-5"><a href="#cb9-5" aria-hidden="true" tabindex="-1"></a>    <span class="fu">filter</span>(RT_ms <span class="sc">&gt;</span> <span class="dv">0</span> <span class="sc">&amp;</span> RT_ms <span class="sc">&lt;</span> <span class="dv">2000</span>)</span>
+<span id="cb9-5"><a href="#cb9-5" aria-hidden="true" tabindex="-1"></a>    <span class="fu">filter</span>(RT_ms <span class="sc">&gt;=</span> <span class="dv">150</span>)</span>
 <span id="cb9-6"><a href="#cb9-6" aria-hidden="true" tabindex="-1"></a>  </span>
 <span id="cb9-7"><a href="#cb9-7" aria-hidden="true" tabindex="-1"></a>  <span class="co"># Create violin plot</span></span>
 <span id="cb9-8"><a href="#cb9-8" aria-hidden="true" tabindex="-1"></a>  <span class="fu">ggplot</span>(rt_data, <span class="fu">aes</span>(<span class="at">x =</span> arrow_pattern, <span class="at">y =</span> RT_ms, <span class="at">fill =</span> arrow_pattern)) <span class="sc">+</span></span>
@@ -735,15 +742,16 @@ pre > code.sourceCode > span > a:first-child::before { text-decoration: underlin
 <span id="cb9-31"><a href="#cb9-31" aria-hidden="true" tabindex="-1"></a>      <span class="at">legend.position =</span> <span class="st">"none"</span>,</span>
 <span id="cb9-32"><a href="#cb9-32" aria-hidden="true" tabindex="-1"></a>      <span class="at">panel.grid.minor =</span> <span class="fu">element_blank</span>()</span>
 <span id="cb9-33"><a href="#cb9-33" aria-hidden="true" tabindex="-1"></a>    ) <span class="sc">+</span></span>
-<span id="cb9-34"><a href="#cb9-34" aria-hidden="true" tabindex="-1"></a>    <span class="fu">scale_y_continuous</span>(<span class="at">breaks =</span> <span class="fu">seq</span>(<span class="dv">0</span>, <span class="dv">2000</span>, <span class="dv">250</span>))</span>
-<span id="cb9-35"><a href="#cb9-35" aria-hidden="true" tabindex="-1"></a>}</span>
-<span id="cb9-36"><a href="#cb9-36" aria-hidden="true" tabindex="-1"></a></span>
-<span id="cb9-37"><a href="#cb9-37" aria-hidden="true" tabindex="-1"></a><span class="co"># Create violin plots</span></span>
-<span id="cb9-38"><a href="#cb9-38" aria-hidden="true" tabindex="-1"></a>rt_violin_fast <span class="ot">&lt;-</span> <span class="fu">create_rt_violin_plot</span>(resp_ericsen_rapido, <span class="st">"Fast"</span>)</span>
-<span id="cb9-39"><a href="#cb9-39" aria-hidden="true" tabindex="-1"></a>rt_violin_slow <span class="ot">&lt;-</span> <span class="fu">create_rt_violin_plot</span>(resp_ericsen_lento, <span class="st">"Slow"</span>)</span>
-<span id="cb9-40"><a href="#cb9-40" aria-hidden="true" tabindex="-1"></a></span>
-<span id="cb9-41"><a href="#cb9-41" aria-hidden="true" tabindex="-1"></a><span class="co"># Display violin plots</span></span>
-<span id="cb9-42"><a href="#cb9-42" aria-hidden="true" tabindex="-1"></a><span class="fu">grid.arrange</span>(rt_violin_fast, rt_violin_slow, <span class="at">ncol =</span> <span class="dv">1</span>, <span class="at">nrow =</span> <span class="dv">2</span>)</span></code><button title="Copy to Clipboard" class="code-copy-button"><i class="bi"></i></button></pre></div>
+<span id="cb9-34"><a href="#cb9-34" aria-hidden="true" tabindex="-1"></a>    <span class="fu">scale_y_continuous</span>(<span class="at">breaks =</span> <span class="fu">seq</span>(<span class="dv">0</span>, <span class="fu">ceiling</span>(max_rt<span class="sc">/</span><span class="dv">500</span>)<span class="sc">*</span><span class="dv">500</span>, <span class="dv">500</span>), <span class="at">limits =</span> <span class="fu">c</span>(<span class="dv">150</span>, max_rt)) <span class="sc">+</span></span>
+<span id="cb9-35"><a href="#cb9-35" aria-hidden="true" tabindex="-1"></a>    <span class="fu">coord_cartesian</span>(<span class="at">ylim =</span> <span class="fu">c</span>(<span class="dv">150</span>, max_rt))</span>
+<span id="cb9-36"><a href="#cb9-36" aria-hidden="true" tabindex="-1"></a>}</span>
+<span id="cb9-37"><a href="#cb9-37" aria-hidden="true" tabindex="-1"></a></span>
+<span id="cb9-38"><a href="#cb9-38" aria-hidden="true" tabindex="-1"></a><span class="co"># Create violin plots</span></span>
+<span id="cb9-39"><a href="#cb9-39" aria-hidden="true" tabindex="-1"></a>rt_violin_fast <span class="ot">&lt;-</span> <span class="fu">create_rt_violin_plot</span>(resp_ericsen_rapido, <span class="st">"Fast"</span>, max_rt_overall)</span>
+<span id="cb9-40"><a href="#cb9-40" aria-hidden="true" tabindex="-1"></a>rt_violin_slow <span class="ot">&lt;-</span> <span class="fu">create_rt_violin_plot</span>(resp_ericsen_lento, <span class="st">"Slow"</span>, max_rt_overall)</span>
+<span id="cb9-41"><a href="#cb9-41" aria-hidden="true" tabindex="-1"></a></span>
+<span id="cb9-42"><a href="#cb9-42" aria-hidden="true" tabindex="-1"></a><span class="co"># Display violin plots</span></span>
+<span id="cb9-43"><a href="#cb9-43" aria-hidden="true" tabindex="-1"></a><span class="fu">grid.arrange</span>(rt_violin_fast, rt_violin_slow, <span class="at">ncol =</span> <span class="dv">1</span>, <span class="at">nrow =</span> <span class="dv">2</span>)</span></code><button title="Copy to Clipboard" class="code-copy-button"><i class="bi"></i></button></pre></div>
 </details>
 <div class="cell-output-display">
 <div>
